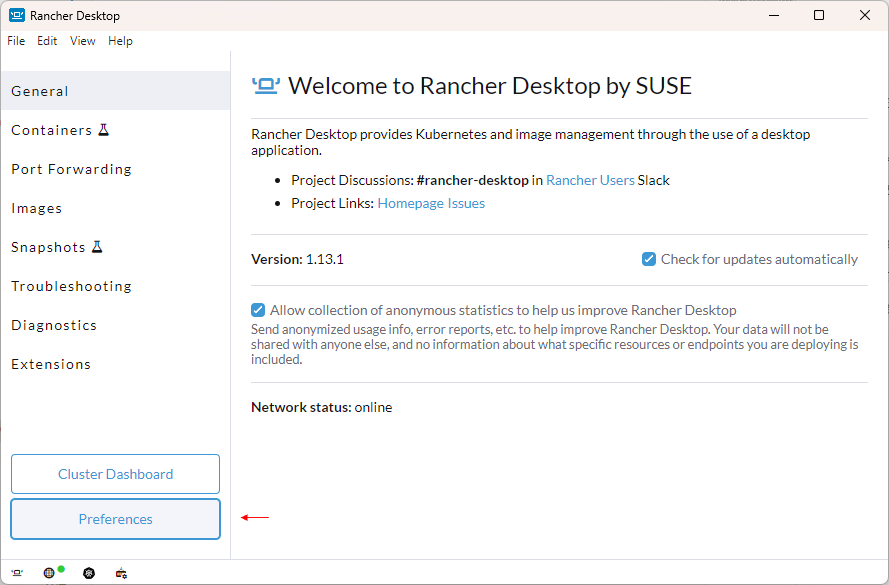
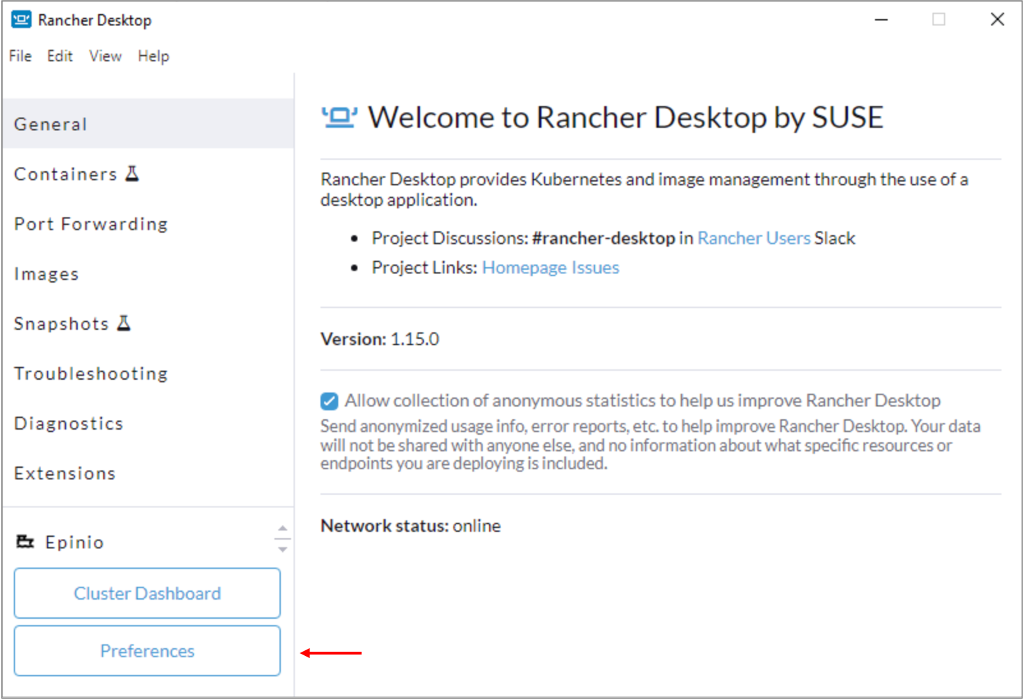
Update based on VS review feedback

diff --git a/docs/tutorials/installrancher.md b/docs/tutorials/installrancher.md
@@ -31,19 +31,37 @@ wsl --update
 
 Follow any instructions given by the WSL update process. Afterward, from a Windows command prompt or PowerShell window, run the following command to make sure Ubuntu is the default distribution:
 
-```
-wsl --set-default Ubuntu-22.04
-```
+=== "For Ubuntu-22.04"
+
+    ```
+    wsl --set-default Ubuntu-22.04
+    ```
+
+=== "For Ubuntu-24.04"
+
+    ```
+    wsl --set-default Ubuntu-24.04
+    ```
+
 
 Proceed to [install Rancher Desktop](#install-rancher-desktop).
 
 ### Install WSL2
 
-Open PowerShell or Windows Command Prompt in administrator mode by right-clicking and selecting **Run as administrator**. Run the following command to install WSL2 using Ubuntu-22.04 as the Linux distribution:
+Open PowerShell or Windows Command Prompt in administrator mode by right-clicking and selecting **Run as administrator**. Run the following command to install WSL2 using either Ubuntu-22.04 or Ubuntu-24.04 as the Linux distribution:
 
-```
-wsl --install -d Ubuntu-22.04
-```
+=== "For Ubuntu-22.04"
+
+    ```
+    wsl --install -d Ubuntu-22.04
+    ```
+
+=== "For Ubuntu-24.04"
+
+    ```
+    wsl --install -d Ubuntu-24.04
+    ```
+
 
 !!!warning "Important"
     Restart your machine after this initial installation to complete the setup. Once the restart has completed, return to this documentation and complete the steps that follow.
@@ -62,10 +80,19 @@ sudo adduser
 It's not required to enter more information, simply hit the **Enter** key and respond `Y` when prompted **Is the information correct?**.
 
 !!!warning "Important"
-    Make certain that **Ubuntu-22.04** is your default WSL distribution. From a Windows command prompt or PowerShell window, run the following command:
-    ```
-    wsl --set-default Ubuntu-22.04
-    ```
+    Make certain that **Ubuntu-22.04** or **Ubuntu-24.04** is your default WSL distribution. From a Windows command prompt or PowerShell window, run the following command:
+    
+    === "For Ubuntu-22.04"
+
+        ```
+        wsl --set-default Ubuntu-22.04
+        ```
+
+    === "For Ubuntu-24.04"
+
+        ```
+        wsl --set-default Ubuntu-24.04
+        ```
 
 You are now ready to install Rancher Desktop.
 
@@ -75,7 +102,10 @@ You are now ready to install Rancher Desktop.
 1. Download the latest version of the Windows installer from the [Rancher Desktop Releases](https://github.com/rancher-sandbox/rancher-desktop/releases) page.
 
     !!!note
-        Install the latest version of Rancher Desktop. Each new release comes with continuous improvements. Note that version 1.7.0 doesn't work well due to port forwarding issues. Older versions of Rancher Desktop require manual port-forwarding to enable the Windows browser to connect Volt MX Go Foundry applications running in Rancher Desktop. However, this is no longer necessary in the current versions (1.13 and above).
+        It is recommended to use Rancher Desktop version 1.15.1.
+
+    <!--!!!note
+        Install the latest version of Rancher Desktop. Each new release comes with continuous improvements. Note that version 1.7.0 doesn't work well due to port forwarding issues. Older versions of Rancher Desktop require manual port-forwarding to enable the Windows browser to connect Volt MX Go Foundry applications running in Rancher Desktop. However, this is no longer necessary in the current versions (1.13 and above).-->
 
 2. If you are upgrading from a prior version of MX Go (v2.0.2 or earlier), it's recommended to reset port forwarding **prior** to installing the latest version of Rancher Desktop by performing the following steps:
 

diff --git a/docs/tutorials/prereq.md b/docs/tutorials/prereq.md
@@ -75,19 +75,20 @@ foundry.mymxgo.com - used to access HCL Volt MX Go Foundry
 
 You can either provide your own hostnames, or use these example names. Either the name to IP address mapping must be made in your DNS configuration, or you must modify your system hosts file. Further documentation here assumes you aren't using a DNS system and configuration and are therefore modifying local hosts file entries.
 
+
+### For K3s only
+
 !!!tip
     Obtain your machine's IP ADDRESS as you will need it in the following step.
 
-Add the hostnames that you have chosen to use in your `/etc/hosts` file together with your **IP ADDRESS** and **dns domain name**. As an example:
+1. Add the hostnames that you have chosen to use in your `/etc/hosts` file together with your **IP ADDRESS** and **dns domain name**. As an example:
 
-```
-10.190.252.181 drapi.mymxgo.com drapi-management.mymxgo.com foundry.mymxgo.com
-```
+    ```
+    10.190.252.181 drapi.mymxgo.com drapi-management.mymxgo.com foundry.mymxgo.com
+    ```
 
-!!!note
-    If you will be accessing this deployment from other remote machines, you need to apply this same `/etc/hosts` file change on those machines as well.
-
-### For K3s only
+    !!!note
+        If you will be accessing this deployment from other remote machines, you need to apply this same `/etc/hosts` file change on those machines as well.
 
 1. Run the following command to make these name/IP address matches available within the Kubernetes:
 
@@ -123,12 +124,28 @@ Add the hostnames that you have chosen to use in your `/etc/hosts` file together
 
 ### For Rancher Desktop only
 
-You must restart Rancher Desktop:
+1. From a Command Prompt on either Windows 10 or Windows 11, obtain the IPv4 Address for the Ethernet adapter vEthernet (WSL) via the ipconfig command.
 
-1. Select **File** &rarr; **Exit** to close the current session.
-2. Open a new session by opening Rancher Desktop via the desktop icon.
+    ![ipconfig](../assets/images/ipconfigcmd1.png)
 
---8<-- "restartwindows.md"
+    !!! warning "Important"
+        - Select the correct **IPv4 Address** under **Ethernet adapter vEthernet (WSL (Hyper-V firewall))**, which by default starts with **172**. Placing the correct IPv4 address in the Windows host file ensures deployment is reachable from within WSL2 and Windows.
+        - If you want to access this deployment from a remote machine, you most likely need to update the `/etc/hosts` file on the remote machine as well. Specify the **IPv4 address** for the Windows system where Foundry is installed. If using a wired connection, use the **IPv4 Address** under **Ethernet adapter Ethernet 3**. If using a wireless connection, use the **IPv4 Address** under **Wireless LAN adapter Wi-Fi**. 
+
+2. Add the hostnames that you have chosen to use in your `C:\Windows\System32\drivers\etc\hosts` file together with your IPv4 ADDRESS and dns domain name.
+
+    For example:
+
+    ```
+    172.23.208.1 drapi.mymxgo.com drapi-management.mymxgo.com foundry.mymxgo.com
+    ```
+
+3. Restart Rancher Desktop.
+
+    1. Select **File** &rarr; **Exit** to close the current session.
+    2. Open a new session by opening Rancher Desktop via the desktop icon.
+
+    --8<-- "restartwindows.md"
 
 ## 4. Create a temp directory for the charts
 

diff --git a/docs/tutorials/installfoundry.md b/docs/tutorials/installfoundry.md
@@ -102,6 +102,8 @@ The procedures are applicable for Volt MX Go v2.1 as only the `voltmx-foundry` h
     ```
     helm install foundry voltmx-foundry -f values.yaml
     ```
+    !!! warning "Important"
+        The deployment process takes several minutes (more than 5 minutes based on tests). Kindly wait for the process to complete. Once done, you receive a notification that the application has been deployed successfully, including release, build, database, and application information. Otherwise, you will receive an error notification that the deployment is unsuccessful.
 
 2. Run the following command to verify when the Volt MX Go Foundry install is ready:
 
@@ -120,7 +122,8 @@ The procedures are applicable for Volt MX Go v2.1 as only the `voltmx-foundry` h
 
 !!!note
     - If you defined a different Foundry hostname, the Foundry URL would be the defined Foundry hostname concatenated with `/mfconsole/`.
-    - If you want to access this deployment from a remote machine, you most likely need to update the `/etc/hosts` file on the remote machine as well.
+    - If you want to access this deployment from a remote machine, you most likely need to update the `/etc/hosts` file on the remote machine as well. Specify the **IPv4 address** for the Windows system where Foundry is installed. If using a wired connection, use the **IPv4 Address** under **Ethernet adapter Ethernet 3**. If using a wireless connection, use the **IPv4 Address** under **Wireless LAN adapter Wi-Fi**.
+    
     
     - To create an account, see [Create a Volt MX Go Foundry administrator account](../howto/foundryadminaccount.md).
     
@@ -277,7 +280,7 @@ The procedures are applicable for Volt MX Go v2.0.4 or earlier versions as the f
 
 !!!note
     - If you defined a different Foundry hostname, the Foundry URL would be the defined Foundry hostname concatenated with `/mfconsole/`.
-    - If you want to access this deployment from a remote machine, you most likely need to update the `/etc/hosts` file on the remote machine as well.
+    - If you want to access this deployment from a remote machine, you most likely need to update the `/etc/hosts` file on the remote machine as well. Specify the **IPv4 address** for the Windows system where Foundry is installed. If using a wired connection, use the **IPv4 Address** under **Ethernet adapter Ethernet 3**. If using a wireless connection, use the **IPv4 Address** under **Wireless LAN adapter Wi-Fi**.
     
     - To create an account, see [Create a Volt MX Go Foundry administrator account](../howto/foundryadminaccount.md).
     

diff --git a/docs/tutorials/prereqnew.md b/docs/tutorials/prereqnew.md
@@ -7,6 +7,7 @@
 !!!warning "Important"
     If you deployed Kubernetes using Rancher Desktop, use an Ubuntu terminal session to run all the commands in this section and the other subsequent sections. To access the Ubuntu terminal, enter "Ubuntu" in the Windows search box and select the Ubuntu for Windows App. An Ubuntu terminal session opens with your home directory set as your current directory.
 
+## Procedure
 
 1.	Run the following command to get a list of pods running Volt MX Go Foundry:
 
